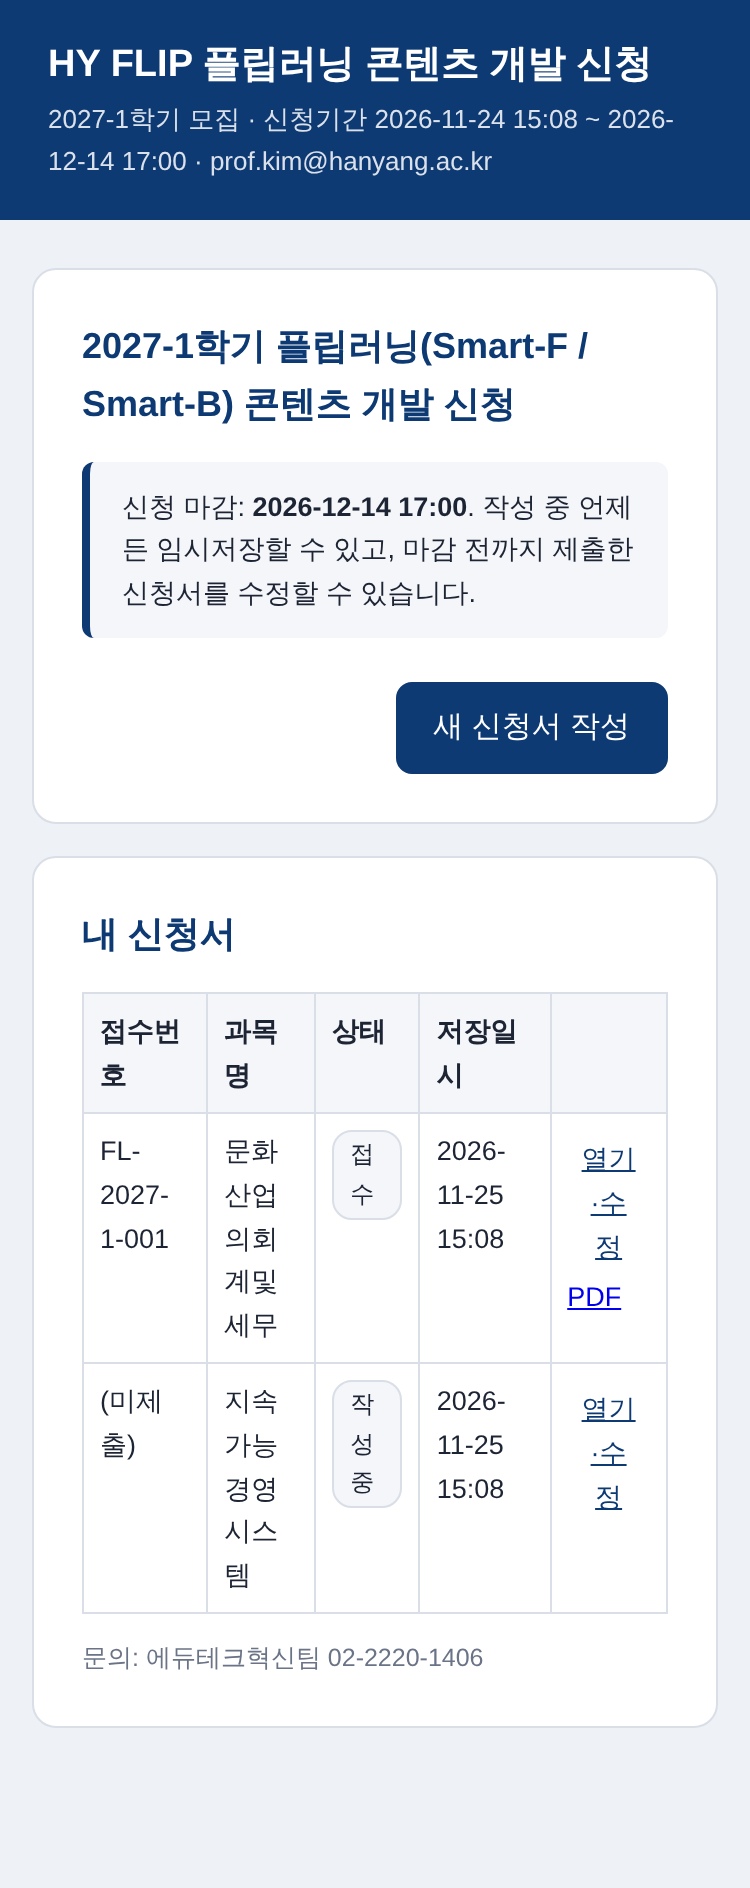
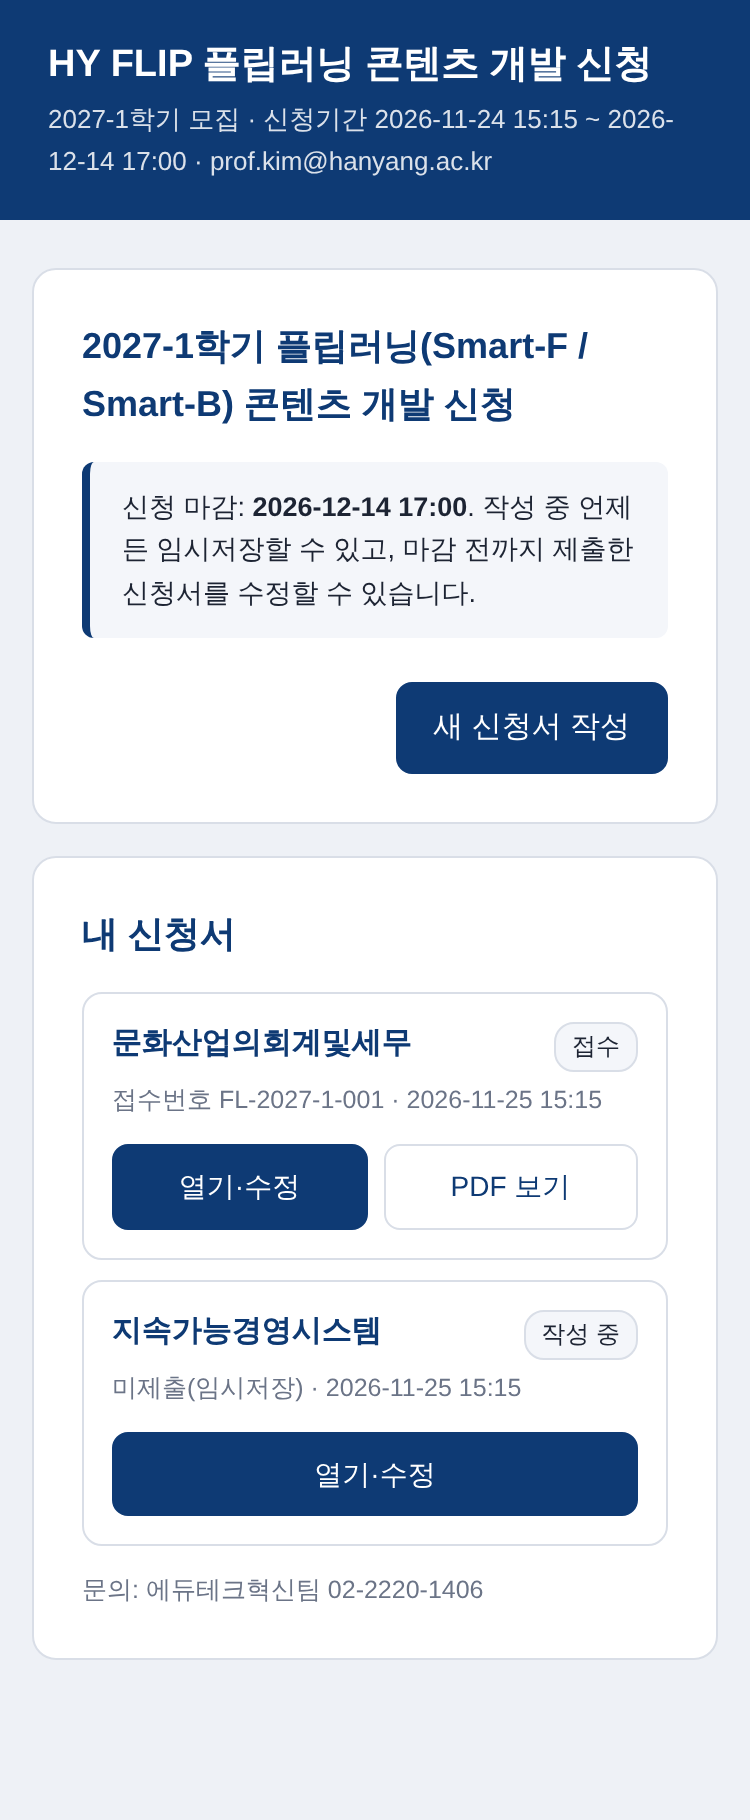
HY FLIP 신청 화면: 모바일 '내 신청서' 카드형 목록
- 640px 이하에서 표 대신 카드(과목명·상태·접수번호·저장일시, 열기·PDF 버튼)
- PC·태블릿은 기존 표 그대로
- shots: 모바일 카드 표시·표 숨김·버튼 크기, 태블릿·PC 표만 보이는지 점검 추가
- 검토의견·PLAN 갱신, 캡처 재생성

Claude-Session: https://claude.ai/code/session_01V8sEviDtHJYE4byGKRz3rU

diff --git a/hyflip/src/Index.html b/hyflip/src/Index.html
@@ -52,7 +52,17 @@
   .sum.bad { color:var(--warn); } .sum.good { color:var(--ok); }
   .errors li { color:var(--warn); }
   .toast { position:fixed; bottom:20px; left:50%; transform:translateX(-50%); background:#1d2433; color:#fff; padding:10px 18px; border-radius:8px; font-size:13.5px; display:none; z-index:9; }
-  .badge { display:inline-block; font-size:12px; padding:2px 8px; border-radius:10px; background:var(--soft); border:1px solid var(--line); }
+  .badge { display:inline-block; font-size:12px; padding:2px 8px; border-radius:10px; background:var(--soft); border:1px solid var(--line); white-space:nowrap; }
+  /* 내 신청서: PC·태블릿은 표, 모바일(640px 이하)은 카드 */
+  .app-cards { display:none; }
+  .app-card { border:1px solid var(--line); border-radius:10px; padding:14px; margin-bottom:10px; }
+  .app-card .top { display:flex; justify-content:space-between; align-items:flex-start; gap:10px; }
+  .app-card .course { font-weight:700; color:var(--navy); line-height:1.45; }
+  .app-card .meta { font-size:12.5px; color:#6b7487; margin-top:4px; }
+  .app-card .acts { display:flex; gap:8px; margin-top:12px; }
+  .app-card .acts button, .app-card .acts a { flex:1; text-align:center; padding:9px 0; border-radius:8px; font-size:14px; }
+  .app-card .acts a { border:1px solid var(--line); color:var(--navy); text-decoration:none; }
+  @media (max-width:640px){ .app-table { display:none; } .app-cards { display:block; } }
   .loading { text-align:center; color:#6b7487; padding:40px; }
 </style>
 </head>
@@ -139,6 +149,11 @@ function homeView() {
       <td><span class="badge">${esc(a.status)}</span></td><td>${esc(a.savedAt)}</td>
       <td><button class="link" onclick="openApp('${esc(a.id)}')">${a.editable ? '열기·수정' : '보기'}</button>
       ${a.pdf ? ` <a href="${esc(a.pdf)}" target="_blank">PDF</a>` : ''}</td></tr>`).join('');
+  const cards = INIT.apps.map(a => `<div class="app-card">
+      <div class="top"><div class="course">${esc(a.course || '(과목명 미입력)')}</div><span class="badge">${esc(a.status)}</span></div>
+      <div class="meta">${esc(a.id.indexOf('TMP-') === 0 ? '미제출(임시저장)' : '접수번호 ' + a.id)} · ${esc(a.savedAt)}</div>
+      <div class="acts"><button class="${a.editable ? 'primary' : ''}" onclick="openApp('${esc(a.id)}')">${a.editable ? '열기·수정' : '보기'}</button>
+      ${a.pdf ? `<a href="${esc(a.pdf)}" target="_blank">PDF 보기</a>` : ''}</div></div>`).join('');
   return `<div class="card">
     <h2>${esc(INIT.semester)}학기 플립러닝(Smart-F / Smart-B) 콘텐츠 개발 신청</h2>
     ${INIT.open ? `<div class="notice">신청 마감: <b>${esc(INIT.deadline)}</b>. 작성 중 언제든 임시저장할 수 있고, 마감 전까지 제출한 신청서를 수정할 수 있습니다.</div>`
@@ -146,7 +161,8 @@ function homeView() {
     <div class="btns"><span></span><button class="primary" ${INIT.open ? '' : 'disabled'} onclick="newApp()">새 신청서 작성</button></div>
   </div>
   <div class="card"><h2>내 신청서</h2>
-    ${INIT.apps.length ? `<table><tr><th>접수번호</th><th>과목명</th><th>상태</th><th>저장일시</th><th></th></tr>${rows}</table>` : '<div class="hint">아직 작성한 신청서가 없습니다.</div>'}
+    ${INIT.apps.length ? `<table class="app-table"><tr><th>접수번호</th><th>과목명</th><th>상태</th><th>저장일시</th><th></th></tr>${rows}</table>
+      <div class="app-cards">${cards}</div>` : '<div class="hint">아직 작성한 신청서가 없습니다.</div>'}
     <div class="hint" style="margin-top:12px">문의: ${esc(INIT.contact)}</div>
   </div>`;
 }

diff --git a/hyflip/preview/shots.js b/hyflip/preview/shots.js
@@ -44,7 +44,12 @@ const OTHER = 'prof.lee@hanyang.ac.kr';
   const ctx = await browser.newContext({ viewport: { width: 375, height: 812 }, deviceScaleFactor: scale });
   const p = await ctx.newPage(); watch(p);
   await p.goto(base + '/?as=' + DEFAULT_USER);
-  await p.waitForSelector('table tr td');
+  await p.waitForSelector('.app-card');
+  // 모바일은 표 대신 카드 목록
+  if (await p.isVisible('.app-table')) problems.push('모바일에서 내 신청서 표가 보임(카드여야 함)');
+  if ((await p.$$('.app-card')).length !== 2) problems.push('모바일 카드 개수 오류');
+  const cardBtnH = await p.$eval('.app-card .acts button', (b) => b.getBoundingClientRect().height);
+  if (cardBtnH < 36) problems.push('카드 버튼이 너무 작음: ' + cardBtnH + 'px');
   const homeText = await p.textContent('#app');
   if (!/FL-2027-1-001/.test(homeText) || !/\(미제출\)/.test(homeText)) problems.push('내 신청서 목록에 제출·미제출 건이 보이지 않음');
   if (/FL-2027-1-002/.test(homeText)) problems.push('다른 교수(박교수)의 신청서가 목록에 보임');
@@ -179,7 +184,8 @@ const OTHER = 'prof.lee@hanyang.ac.kr';
     const c = await browser.newContext({ viewport: { width: w, height: h }, deviceScaleFactor: scale });
     const t = await c.newPage(); watch(t);
     await t.goto(base + '/?as=' + DEFAULT_USER);
-    await t.waitForSelector('table tr td');
+    await t.waitForSelector('.app-table tr td');
+    if (await t.isVisible('.app-cards')) problems.push(tag + ': 카드 목록이 표와 함께 보임');
     await noHScroll(t, tag + ' 첫 화면');
     await shot(t, (tag === 'tablet' ? '12' : '14') + '-' + tag + '-home');
     // 임시저장본(샘플C) 다시 열기 → 저장된 단계(주차별 설계)로 열림

diff --git a/hyflip/docs/plans/PLAN_hyflip.md b/hyflip/docs/plans/PLAN_hyflip.md
@@ -38,6 +38,10 @@
 - [x] `preview/shots.js`: 375/768/1440 실제 클릭 흐름 + 캡처 15장
 - [x] 게이트: `npm run shots` 문제 0건 — 동의 필수, 과목 검색 자동 채움, 필수 항목 안내, 평가 110% 막힘, 7주차 시험 이동 후 14주 계산, 영상 7주 막힘, 제출·접수번호, 접수 메일 본인 1통, 임시저장 중복 없음, PDF 7·8주차 표, 남의 신청서 차단, 개인 Gmail 차단, 가로 스크롤·JS 오류 없음
 
+## Phase 5.5 — 모바일 카드형 목록 (11/25)
+- [x] `Index.html`: 640px 이하에서 ‘내 신청서’ 표 → 카드(버튼 크게). PC·태블릿은 표 유지
+- [x] 게이트: `npm test` 35개, `npm run check`, `npm run shots`(모바일 카드 2개·표 숨김·버튼 높이 36px↑, 태블릿·PC 표만 보임) 통과
+
 ## Phase 6 — 문서 (모듈 B와 같은 묶음)
 - [x] 기능정의서 검토의견 · 운영매뉴얼 · 이 PLAN · README 바로가기
 
@@ -55,7 +59,7 @@
 | 학교 Workspace가 clasp/외부 앱 승인을 막음 | 중 | 중 | 편집기 직접 붙여넣기(설치가이드 4장) |
 | 담당자가 `신청목록` 열 이름·순서 변경 | 낮 | 높 | `setup`이 필수 열 점검, 운영매뉴얼에 금지 명시 |
 | 마감 직전 접수 몰림 | 중 | 낮 | LockService로 접수번호 중복 방지(테스트 있음) |
-| 모바일에서 내 신청서 표가 좁음 | 높 | 낮 | 가로 스크롤은 없음. 카드형 목록은 개선 제안(검토의견 D) |
+| 모바일에서 내 신청서 표가 좁음 | – | – | **해결(11/25)**: 640px 이하 카드형 목록, `npm run shots`로 확인 |
 
 ## 롤백
 - 코드: 편집기 ‘배포 관리’에서 이전 버전 선택(배포 ID 유지)

diff --git a/hyflip/docs/기능정의서_검토의견.md b/hyflip/docs/기능정의서_검토의견.md
@@ -38,7 +38,7 @@
 - **과목 검색 자동 채움**: 학수번호·과목명·담당교수로 검색, 선택하면 과목 정보 자동 입력.
 - **평가 비율 합계 표시**: 100%가 아니면 빨간색 + 다음 단계 차단.
 - **`setup` 점검**: 필수 열·메일문구 4종이 없으면 설치 단계에서 오류로 알려 줌.
+- **모바일 카드형 목록(11/25)**: 화면 폭 640px 이하에서는 ‘내 신청서’를 표 대신 카드(과목명·상태·접수번호·저장일시 + 열기·PDF 버튼)로 보여 줌. PC·태블릿은 기존 표 그대로. [캡처 01](screenshots/01-mobile-home.png)
 
 개선 제안 (미구현)
-- **모바일 내 신청서 목록**: 375px 폭에서 표 칸이 좁아 과목명이 글자 단위로 줄바꿈됩니다(가로 스크롤은 없음, [캡처 01](screenshots/01-mobile-home.png)). 교수님 대부분이 PC로 작성한다면 그대로 두고, 모바일 이용이 많으면 카드형 목록으로 바꾸기를 제안합니다.
 - **선정 교수 → 예약 모듈 자동 연동**: 상태를 ‘선정’으로 바꿀 때 모듈 B `선정교수` 탭에 자동으로 한 줄 추가.
